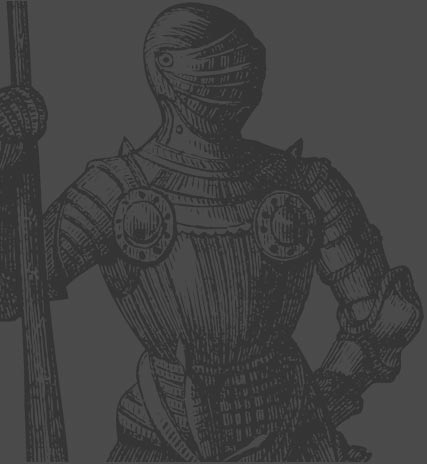
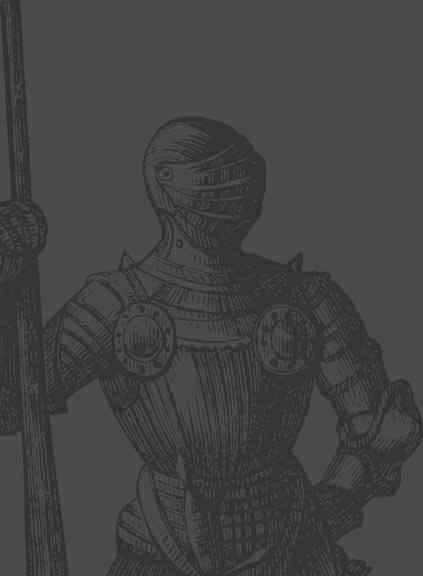
fixed background placement

diff --git a/scss/app.scss b/scss/app.scss
@@ -126,13 +126,13 @@ p {
 
     &.bg2 {
     	background-size: auto;
-    	background-position: 0% 80%;
+    	background-position: left bottom;
     	background-repeat: no-repeat;
     }
 
     &.bg3 {
     	background-size: 50%;
-    	background-position: 0% 10%;
+    	background-position: left bottom;
     	background-repeat: no-repeat;
     }
 }
